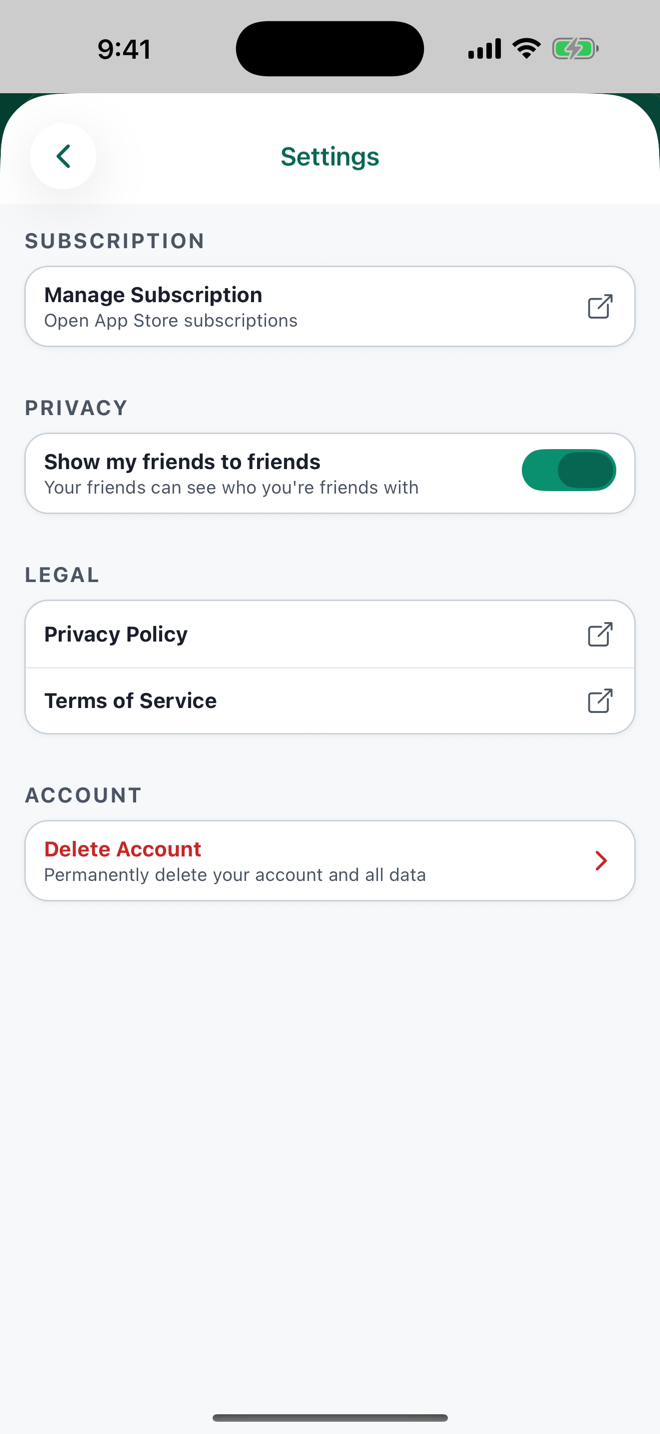
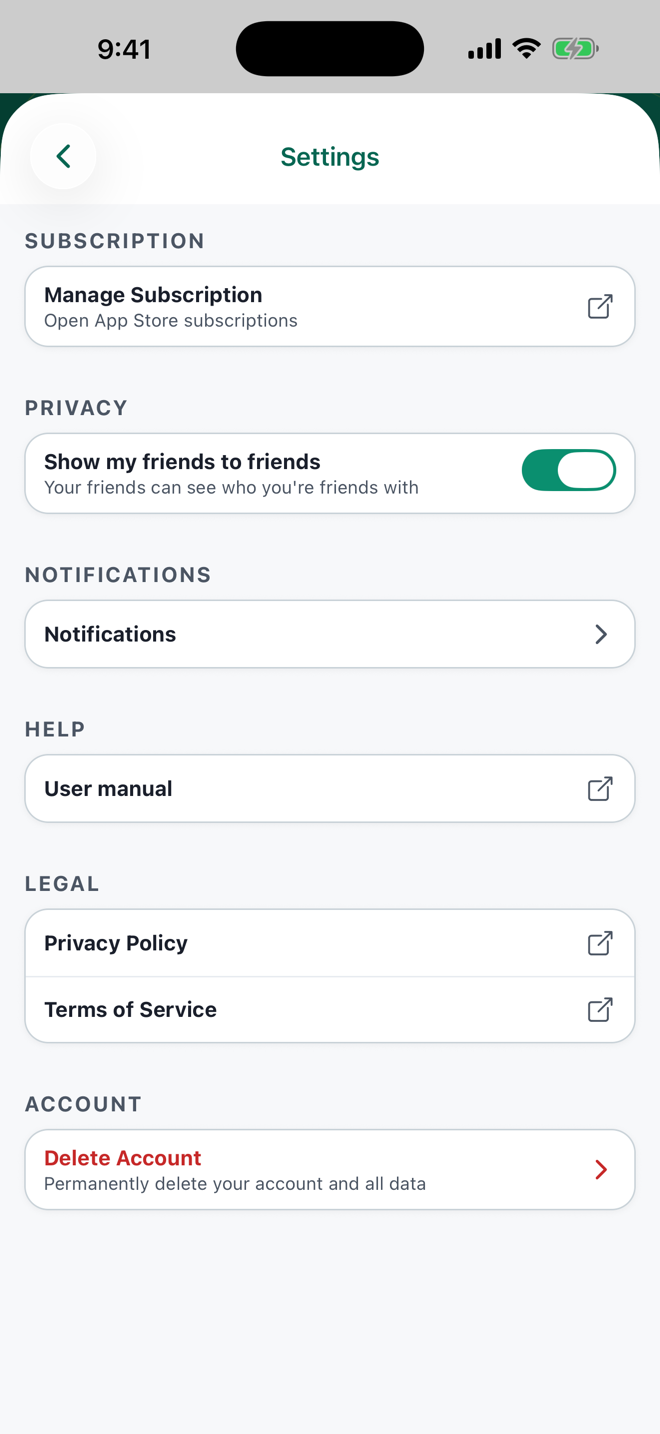
manual: Settings › Notifications and its two switches; Settle up names the Payments switch (GolfGames #1121)
Retakes settings.png from a Release build running the #1121 branch's JS.

Claude-Session: https://claude.ai/code/session_01HSCz6JruuWZDVEVmQJNaNP

diff --git a/manual/settings/index.html b/manual/settings/index.html
@@ -41,17 +41,18 @@
     </div>
 
     <h2 id="settings">The Settings screen</h2>
-    <p>Tap <strong>Profile</strong> › <strong>Settings</strong>. It has five sections:</p>
+    <p>Tap <strong>Profile</strong> › <strong>Settings</strong>. It has six sections:</p>
     <ul>
       <li><strong>SUBSCRIPTION</strong>: <strong>Manage Subscription</strong> opens your subscriptions in the App Store or Google Play. See <a href="/manual/pro/#manage">Changing or cancelling</a>.</li>
       <li><strong>PRIVACY</strong>: <strong>Show my friends to friends</strong>, described below.</li>
+      <li><strong>NOTIFICATIONS</strong>: <strong>Notifications</strong> opens your notification switches. See <a href="#notifications">Notifications</a>.</li>
       <li><strong>HELP</strong>: <strong>User manual</strong> opens this manual in your browser.</li>
       <li><strong>LEGAL</strong>: the <a href="/privacy/">Privacy Policy</a> and <a href="/terms/">Terms of Service</a>.</li>
       <li><strong>ACCOUNT</strong>: <strong>Delete Account</strong>. See <a href="#delete">Deleting your account</a>.</li>
     </ul>
 
     <div class="shots one">
-      <figure><img src="/manual/img/settings/settings.png" alt="The Settings screen: Manage Subscription, Show my friends to friends, Privacy Policy, Terms of Service and Delete Account" loading="lazy"><figcaption>Settings</figcaption></figure>
+      <figure><img src="/manual/img/settings/settings.png" alt="The Settings screen: Manage Subscription, Show my friends to friends, Notifications, User manual, Privacy Policy, Terms of Service and Delete Account" loading="lazy"><figcaption>Settings</figcaption></figure>
     </div>
 
     <h2 id="privacy">Privacy</h2>
@@ -71,7 +72,13 @@
       <li><strong>Friends' rounds</strong>: when a friend starts a round (for example <em>Alex Parker started a round</em>) and when they finish one. You are not notified about a round you are playing in, or about a friend's private round.</li>
       <li><strong>Payments</strong>: when another golfer records a payment with you, asking you to confirm it. See <a href="/manual/settle-up/#confirm">Confirming a payment</a>.</li>
     </ul>
-    <p>Your phone asks whether GolfGames may send notifications. To change your answer, or to turn them off later, go to your phone's settings: on iPhone, <strong>Settings</strong> › <strong>Notifications</strong> › <strong>GolfGames</strong>; on Android, open the notification settings for GolfGames in your phone's app settings.</p>
+    <p>To choose which you get, tap <strong>Profile</strong> › <strong>Settings</strong> › <strong>Notifications</strong>. It has a switch for each, both on unless you turn them off:</p>
+    <ul>
+      <li><strong>Friend Activity</strong>: <em>When a friend starts or finishes a round</em>.</li>
+      <li><strong>Payments</strong>: <em>When a golfer records a payment with you</em>.</li>
+    </ul>
+    <p>The card at the top says how many are on, for example <em>2 of 2 notifications enabled</em>. Your choice is saved to your account, so it follows you to another phone.</p>
+    <p>Your phone asks whether GolfGames may send notifications at all, and its answer overrides both switches. If notifications are off there, the Notifications screen says <em>Notifications are turned off.</em> with an <strong>Open Settings</strong> button. To change your answer, or to turn every GolfGames notification off, go to your phone's settings: on iPhone, <strong>Settings</strong> › <strong>Notifications</strong> › <strong>GolfGames</strong>; on Android, open the notification settings for GolfGames in your phone's app settings.</p>
 
     <h2 id="sign-out">Signing out</h2>
     <p>At the bottom of the <strong>Profile</strong> tab, tap <strong>Sign Out</strong>, then <strong>Sign Out</strong> again to confirm.</p>

diff --git a/manual/settle-up/index.html b/manual/settle-up/index.html
@@ -106,7 +106,7 @@
     </div>
 
     <h2 id="confirm">Confirming a payment</h2>
-    <p>When another golfer records a payment with you, you get a notification (if you allow notifications from GolfGames; see <a href="/manual/settings/#notifications">Notifications</a>) and their tab shows a <strong>Waiting on you</strong> card, for example <em>$20 cash from Mike</em> with what the balance will be once it is confirmed.</p>
+    <p>When another golfer records a payment with you, you get a notification (if <strong>Payments</strong> is on in <strong>Settings</strong> › <strong>Notifications</strong> and your phone allows notifications from GolfGames; see <a href="/manual/settings/#notifications">Notifications</a>) and their tab shows a <strong>Waiting on you</strong> card, for example <em>$20 cash from Mike</em> with what the balance will be once it is confirmed.</p>
     <ul>
       <li><strong>Confirm</strong> applies the payment to the tab.</li>
       <li><strong>I didn't get it</strong> (or <strong>I didn't pay it</strong>, when they say you paid them) sends it back. It shows in the history as <em>not received</em>, and the balance does not change.</li>
